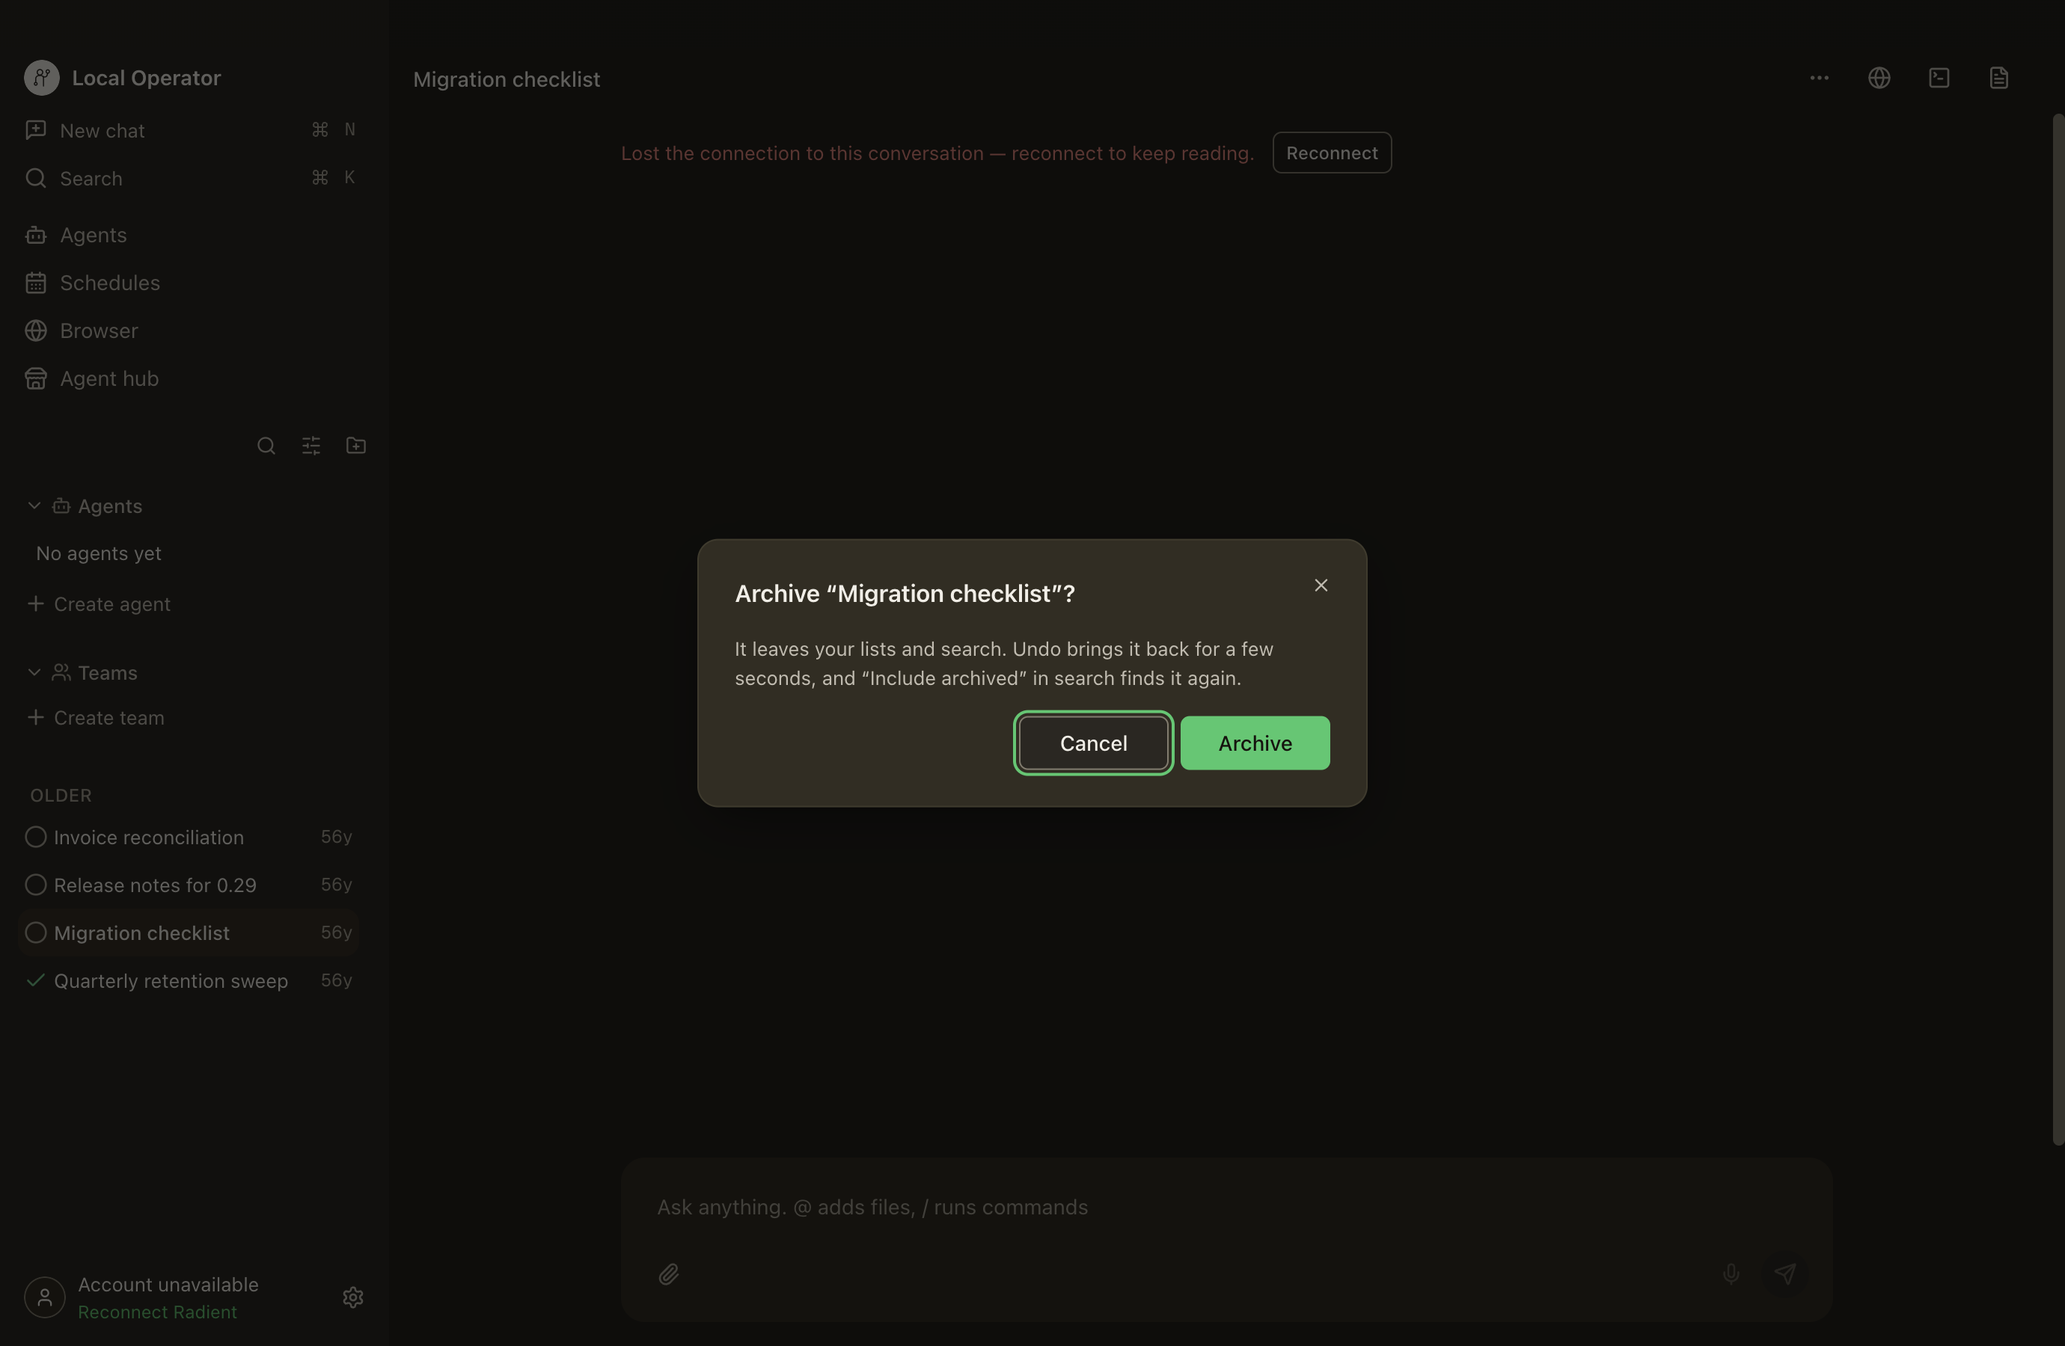
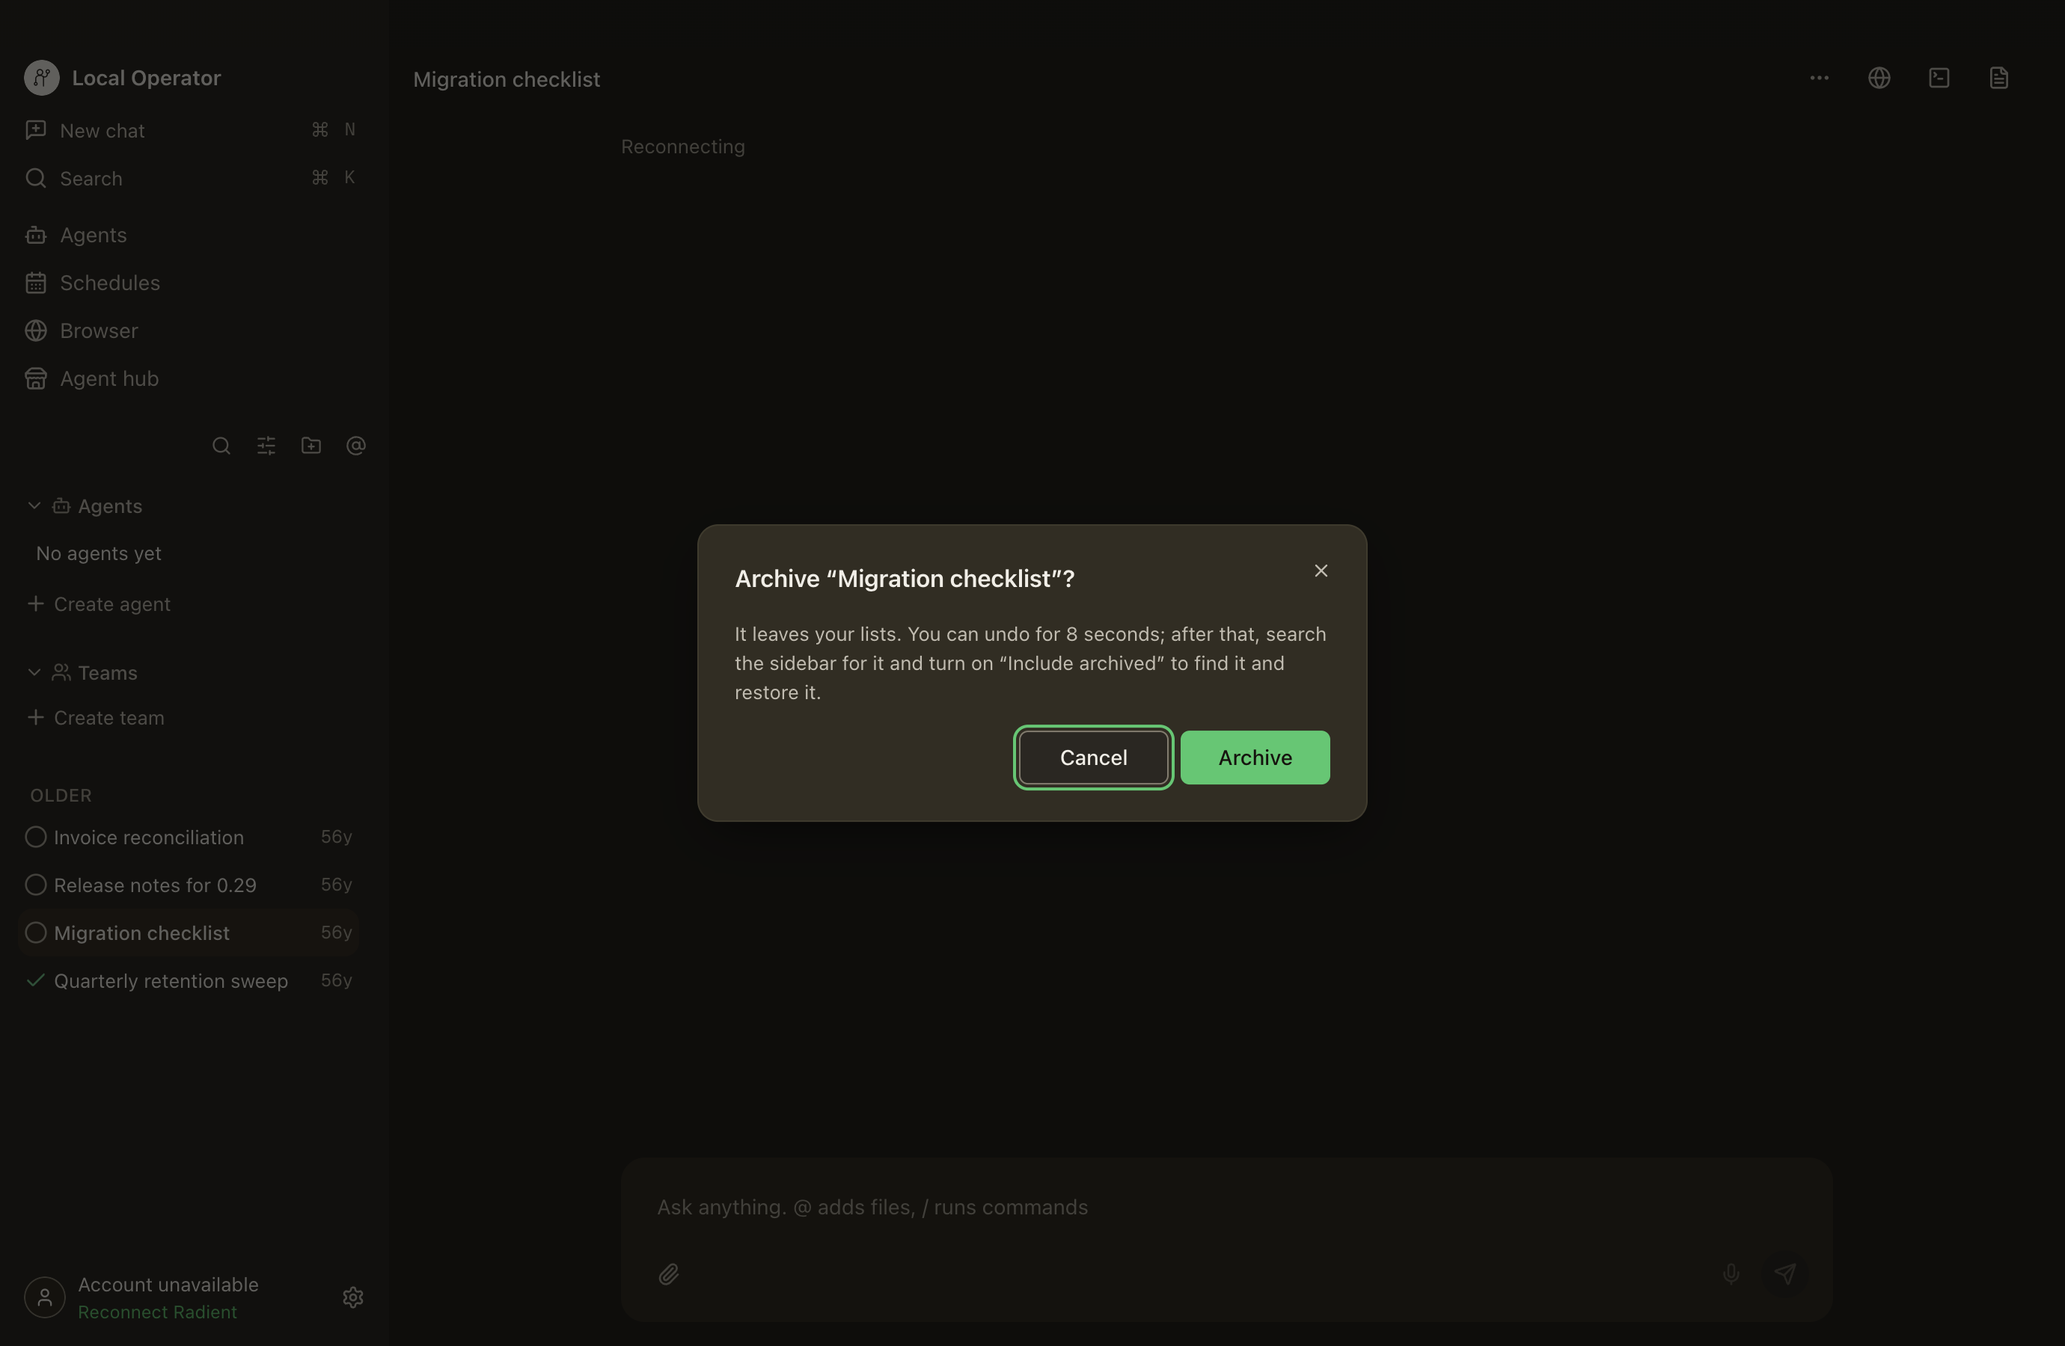
docs(evidence): the frames for round 1 - the dialog asked on Settings, the long name, and the 220 floor
archive-confirm re-shot with the reworded body; archive-confirm-settings (the
press on /settings asks there), the row-space long-title dialog and the pinned
reorder's order-before-220 / grip-hover-220, both palettes. Scenes on one build:
session-archive 74/0 dark and 74/0 light (the header-cancel leg in its final form
passes in light, where it failed before), row-space 58/0 both, pinned-reorder
three 56/0 both. The 220 reading is 76px of title under the pointer with the grip
drawn, as predicted. READMEs and section 15 record it, the folds, and that the 220
trigger is met and left for the design round to adjudicate.

diff --git a/docs/evidence/session-archive/README.md b/docs/evidence/session-archive/README.md
@@ -181,19 +181,22 @@ section its last step presses).
 > older frames in this set are not this change's and were not re-checked - and the light palette
 > was not re-run after the fold.
 
-> **PENDING FRAMES, round 1 remediation (2026-10-01).** Round 1's fixes (design D1/D2/D4, UX U1/U3/U4)
-> changed source after this set was shot, and the host's free disk stayed under the rig's start line
-> (8 GiB; it read 5.6-6.9 GiB for ten minutes) when the re-shoot was due. Read this as the honest
-> state, not as the set's claim: **`archive-confirm/{dark,light}` shows the FIRST body wording** and
-> its closing quote INSIDE the cut name; the reworded body (`It leaves your lists. You can undo for
-> 8 seconds; after that, search the sidebar for it and turn on “Include archived” to find it and
-> restore it.`) and the quotes moved outside the cut are asserted by the scene and were read in a
-> dark run of this branch (74 PASS, 0 FAIL, including `archive-confirm-settings`, the press on
-> `/settings`, which asks THERE), but their frames are NOT committed here yet. **Not yet shot:**
-> `archive-confirm` (both palettes, new wording), `archive-confirm-settings` (both palettes),
-> `archive-confirm-long` (row-space's set; both palettes) and pinned-reorder's `grip-hover-220`.
-> The light run of this scene stopped at its header-door focus leg before the fix that makes that
-> leg deterministic landed, so the leg's light reading is part of what is pending.
+> **ROUND 1 REMEDIATION FRAMES (2026-10-01), shot on the app source of `9d1f54a9ae`** (this commit's only `src/` change is the dev driver's width clamp, which draws nothing in the app).
+> `archive-confirm` was re-shot in both palettes with the reworded body (`It leaves your lists. You
+> can undo for 8 seconds; after that, search the sidebar for it and turn on “Include archived” to
+> find it and restore it.`), and `archive-confirm-settings` is new: the same press made on
+> `/settings`, which asks THERE (UX round 1, U1). The scene was run on one build in both palettes:
+> **dark 74 PASS / 0 FAIL, light 74 PASS / 0 FAIL**, including the header-door cancel leg in its
+> FINAL form (the `fromHeader` flag on the candidate): the light palette is the one that failed
+> before that change (`active: BUTTON`, 35 PASS / 2 FAIL), and it now returns focus to the header's
+> menu trigger in both. The long-name frame belongs to the row-space set
+> (`sidebar-row-space/after/archive-confirm-long`).
+>
+> **FOLDS.** The branch was folded twice since the first frames (`5bea768188` onto `8e73cb8721`,
+> `a191f2e928` onto `e1eb22cd58`, `9d1f54a9ae` onto `81a621f8af`); the fold commits hand-resolve
+> exactly one file, `docs/evidence/manifest.json`, taking main's copy and re-deriving the stamp
+> pair. The earlier paragraph below, comparing the first fold's rows region, is unchanged and still
+> describes that comparison only.
 
 ## What each frame is, and what it is not
 
@@ -225,7 +228,8 @@ line, the lane, the Retry) is what those frames are of.
 | `settle-probe/{dark,light}` | the helper's own still, taken immediately before the arrival sequence | **the frame this set used to carry unnamed** (design round 9's D26 filed the row-space set's copy as identical to another frame and cited by neither README nor manifest): it is the settled list the arrival probes perturb, kept so the pre-arrival state is a picture rather than a claim, and it is named here for that reason | a plain `capture` through the arrival helper, before any press |
 | `delete-dialog/{dark,light}` | the header's conversation menu → `Delete conversation…` | the one permanent delete asks with the danger role, names the conversation, says the transcript cannot be undone, and does nothing on its own | two real clicks (the trigger, then the item), then the dialog's box is measured |
 | `delete-refused/{dark,light}` | the same dialog, `Delete` pressed on a conversation a live session claims | the refusal stays **in the dialog that asked**, the route's sentence is quoted and the window's own remedy follows it, and the keyboard is back on **Cancel** | the stub answers 409 for one conversation `live_claim: true`; the scene presses Confirm and then measures `[data-cancel-action]` for `focused` |
-| `archive-confirm/{dark,light}` | the archive control pressed on a live row, nothing answered yet (2026-09-30) | **archiving asks first**: the pane's one confirmation is up over the panel, titled `Archive “Migration checklist”?` with the name quoted, the body states the way back (**the committed frame shows the FIRST wording**, `It leaves your lists and search. Undo brings it back for a few seconds, and “Include archived” in search finds it again.`; round 1 reworded it - see the pending note below - and the scene now reads the new one), **Cancel holds the keyboard** (the safe action, ringed) and **Archive is the primary, not the danger role** - the delete dialog beside it keeps that role for the act that cannot be undone. The scene reads each of those from the DOM, then PRESSES Cancel and asserts that no archive request reached the daemon (`POST .../archive` count read from the stub's own log, equal before and after the press) | the `session-archive` scene's step 7b, `confirmArchiveDialog` and the daemon log |
+| `archive-confirm/{dark,light}` | the archive control pressed on a live row, nothing answered yet (2026-09-30) | **archiving asks first**: the pane's one confirmation is up over the panel, titled `Archive “Migration checklist”?` with the name quoted, the body states the way back (round 1 reworded it from `It leaves your lists and search. Undo brings it back for a few seconds, and “Include archived” in search finds it again.`, which said "search" twice with opposite meanings; the frame and the scene's check carry the new wording), **Cancel holds the keyboard** (the safe action, ringed) and **Archive is the primary, not the danger role** - the delete dialog beside it keeps that role for the act that cannot be undone. The scene reads each of those from the DOM, then PRESSES Cancel and asserts that no archive request reached the daemon (`POST .../archive` count read from the stub's own log, equal before and after the press) | the `session-archive` scene's step 7b, `confirmArchiveDialog` and the daemon log |
+| `archive-confirm-settings/{dark,light}` | the same press made on `/settings` (2026-10-01, UX round 1, U1) | **the question is asked where the press is made**: the dialog is up over the Settings route, naming `Migration checklist`, Cancel focused. The scene asserts it, then cancels and asserts that no archive request reached the daemon and that no dialog is waiting when `/chat` is shown again | the `session-archive` scene, after step 7b |
 | `archive-refused/{dark,light}` | the archive control pressed on the conversation a running session claims, so the daemon refuses it | a refused archive is reported with the **Retry** that re-sends the desired state; when these frames were taken it was the panel's own **toast lane** (the `[data-archive-toast-band]` shape, since retired 2026-09-27 - the message is an ordinary bottom-right sonner toast again, with live frames under `docs/evidence/undo-toasts-lane-retired/` and the record in `docs/design/sidebar-row-space.md` §10: one container, outside the panel, no band element). The register line this row used to describe, and the `[data-session-archive-failure]` selector it used to cite, are both gone from the tree | the scene clicks the row's control and asserts the refusal's Retry is in the viewport and hit-testable |
 | `archive-refused-chats-only/{dark,light}` | **RETIRED (round 1 of the #534 remediation, Q3/R4-1)** - the refused archive with the entity region collapsed by the panel's own control, the mode the walk used to drive | kept as the record of R4-1's proof: the refusal is reported in the lane the panel draws at its own root, so no region's unmounting can take it with them - which the walk now asserts on the drawn node (`lane.closest("[data-sidebar-region]") === null`) instead of driving a control that no longer exists | the frame's producing steps (hover + press the cluster's hide control, then the restore row) were deleted with the split; the walk no longer writes this frame |
 | `header-archived/{dark,light}` | the open conversation archived from its own menu, no dialog open | archiving the OPEN conversation keeps the pane open and adds the header's `Archived` pill with its restore control beside it | the scene archives from the menu, asserts the pill is in the viewport AND `activeSessionId` is still that conversation, and waits out the offer's 15s ceiling so nothing transient is over the pill's ink |

diff --git a/docs/evidence/pinned-reorder/README.md b/docs/evidence/pinned-reorder/README.md
@@ -175,22 +175,37 @@ palettes). Two states are changed in MEANING, not just in pixels:
 logs its readings and the file is the four slices' logs re-keyed. The shape and key order are the
 committed ones; only the readings changed.
 
-### `grip-hover-220`: PENDING (round 1, design D4)
+### `grip-hover-220`: the clamp's real floor, MEASURED (round 1, design D4)
 
-The clamp's real floor is 220 (`SIDEBAR_MIN_WIDTH`), and the scene now photographs and READS it
-(`PINNED_WIDTHS` gained 220: `order-before-220` and `grip-hover-220`, with the same grip-drawn,
-out-of-the-Tab-ring and cluster checks as the other widths). The frames and the title reading are
-**not committed yet**: the host's free disk stayed under the rig's start line when the run was due.
-The arithmetic the reading will be compared to, from the row at the 220 floor (188px: the panel less
-its 32px of inset, the same relation as the 240 row's 208 in the table above) is the row-space
-scene's own formula, `row - 4 - cluster - 28`, where the 4 is the row's gap and the **28 is the
-leading status slot** (not the grip: the grip is already inside the cluster's 80, which is
-3 x 24 + 2 x 4). So with TWO or more pinned rows the title under the pointer should read
-`188 - 4 - 80 - 28 = 76`, and with ONE (no grip, a 52px cluster) `188 - 4 - 52 - 28 = 104`. The
-first draft of this note wrote the two-pin formula without the 28 and so computed 104 for it
-(review round 2 caught it); the same formula reproduces the table's 96 at 240 (`208 - 4 - 80 - 28`).
-These are predictions: the reading is the scene's, and `sidebar-row-space.md` §15 says how it will
-be judged.
+The panel's range is 220..320 (`SIDEBAR_MIN_WIDTH`, `SIDEBAR_MAX_WIDTH`), and the set now
+photographs the floor: `order-before-220` and `grip-hover-220`, both palettes, with the same
+grip-drawn, out-of-the-Tab-ring and cluster checks as every other width (scene 56 PASS / 0 FAIL in
+each palette on one build).
+
+**A DRIVER DEFECT THIS FOUND, fixed in the same commit:** the dev driver's `setSidebarWidth` verb
+carried its own `240..360` clamp from before the app's range moved, so the first 220 run was told
+`{"width":240,"clamped":true}` and photographed a 240 panel under a 220 label - and the scene's own
+numbers (title 96) were the 240 row's. The verb now applies the app's `clampSidebarWidth`, and the
+re-run reports `{"width":220,"clamped":false}`. Nothing in the app moved; the committed 240 / 260 /
+280 / 320 frames are unaffected (those widths were inside both ranges).
+
+| Panel | Row box | Title at rest | Title under the pointer (grip drawn) |
+| --- | --- | --- | --- |
+| **220** (the floor) | 188 | **106** | **76** |
+
+**76 is the prediction, to the pixel.** The row-space scene's own formula is `row - 4 - cluster -
+28` (the 28 is the leading status slot, the cluster is 80 with the grip: 3 x 24 + 2 x 4):
+`188 - 4 - 80 - 28 = 76`, and the same formula gives the table's 96 at 240. The note this section
+replaces wrote that formula without the 28 and so computed 104 (review round 2 caught it). 76px is
+about **12 characters** of a pinned title at the measured 6.31px per character, in both palettes.
+`sidebar-row-space.md` §15 states what this reading does to its revisit trigger.
+
+> **Second and third folds (2026-10-01).** After the fold below the branch was folded onto
+> `e1eb22cd58` (`a191f2e928`) and `81a621f8af` (`9d1f54a9ae`); the only file resolved by hand each time
+> is `docs/evidence/manifest.json` (main's copy taken whole, the stamp pair re-derived). The frames
+> in this set other than the two `220` ones are the ones the first fold's comparison below describes;
+> they were NOT re-shot for the later folds, and the later folds changed no file the pinned strip
+> reads (a rows-region comparison was not repeated for them).
 
 ### After the fold onto `origin/main` (2026-10-01)
 

diff --git a/docs/design/sidebar-row-space.md b/docs/design/sidebar-row-space.md
@@ -998,17 +998,18 @@ than from a green test.
   step stays what it was: a band for the grip ALONE (one control, one more position), not a
   redesign of the reveal.
 
-  **THE 220 TRIGGER IS EXPECTED TO BE MET, AND IT IS NOT MOVED TO AVOID THAT (review round 2).**
-  The row-space scene's own formula (`row - 4 - cluster - 28`, the 28 being the leading status
-  slot) predicts about **76px** of title under the pointer at the 220 floor with two or more
-  pins (`188 - 4 - 80 - 28`), which is under the 80 this section named. The reading has not been
-  taken yet (the frames session is pending on the host's disk), so this is a prediction and not
-  a finding. The threshold stays where it was written, so the reading is judged against the
-  number the design round saw. **When the frame lands, the measured value goes here in one
-  sentence, and the adjudication is the design round's, with the frame in front of it**: keep the
-  deferral (the 220 floor is a width almost nobody sits at, and the band's cost is a second
-  home for the same handle) or take the grip-only band. This section does not decide it for them
-  by editing its own trigger.
+  **THE 220 TRIGGER IS MET, AND IT IS NOT MOVED TO AVOID THAT (review round 2; measured
+  2026-10-01).** The reading is in (`pinned-reorder/grip-hover-220`, both palettes, scene 56 PASS /
+  0 FAIL): at the 220 floor with two or more pinned rows the title under the pointer measures
+  **76px** (a 188px row; 106px at rest), which is under the "about 80px at the 220 floor" this
+  section named, and it equals the prediction `188 - 4 - 80 - 28` to the pixel. At the default
+  (260) the same reading is 116px, over the 100px default-width trigger, so only the 220 trigger
+  fires. **The threshold is left where it was written and the adjudication is the design round's,
+  with the frame in front of it**: keep the deferral (the argument that survives its own trigger is
+  that 220 is the floor of a range the default sits 40px above, the title still reads about 12
+  characters, the grip-only band would give back 28px at the cost of a second home for the same
+  handle, and the operator's complaint was the pop-out at the widths people use) or take the
+  grip-only band for the narrow end. This section does not decide it by editing its own trigger.
 - **T3 and T2 are NOT deferred - they are met, and their readings are pinned in §14.** T3's
   bound (`flyout.left >= row.right + 4`) measures **+6 at every width** on this head, because
   the card is anchored to the row's BOX, which does not shrink when the acts reveal; the

diff --git a/docs/evidence/sidebar-row-space/README.md b/docs/evidence/sidebar-row-space/README.md
@@ -374,6 +374,16 @@ transition: a pointer that crosses the row inside the dwell leaves no transform 
 The keyboard walk was re-pointed with the strip: a Tab from the row's button now LEAVES the row
 (both acts are out of the Tab ring), and the chord path is `⌘⇧P` on the row.
 
+**ROUND 1 REMEDIATION (2026-10-01): `after/archive-confirm-long`, both palettes.** The archive
+dialog on the fixture's 56-character title (`Quarterly retention sweep and the transcripts it
+dropped`), cancelled so the fixture is unchanged. The scene reads three claims as boxes: the NAME is
+cut (`scrollWidth` 422 against `clientWidth` 281), the verb, BOTH quotation marks and the question
+mark are all still on screen (only the words ellipsise), and the question stops short of the dialog's
+own close control. The first run of this frame found a real defect - the closing quote was inside
+the truncating box and was cut with the name - which is fixed in the dialog; the second found the
+scene's own selector matching the wrapper instead of the verb, which is fixed in the scene. The
+scene on the final build: **58 PASS / 0 FAIL in both palettes**.
+
 **AFTER THE FOLD (2026-10-01).** These frames were shot at `56bfefa3ec`; the branch was then
 folded onto `origin/main` as `5bea768188`, where #663's `Open agent` (`@`) control joins the band's
 toolbar and shifts the panel's top, so every FULL frame now differs from the committed one by that
